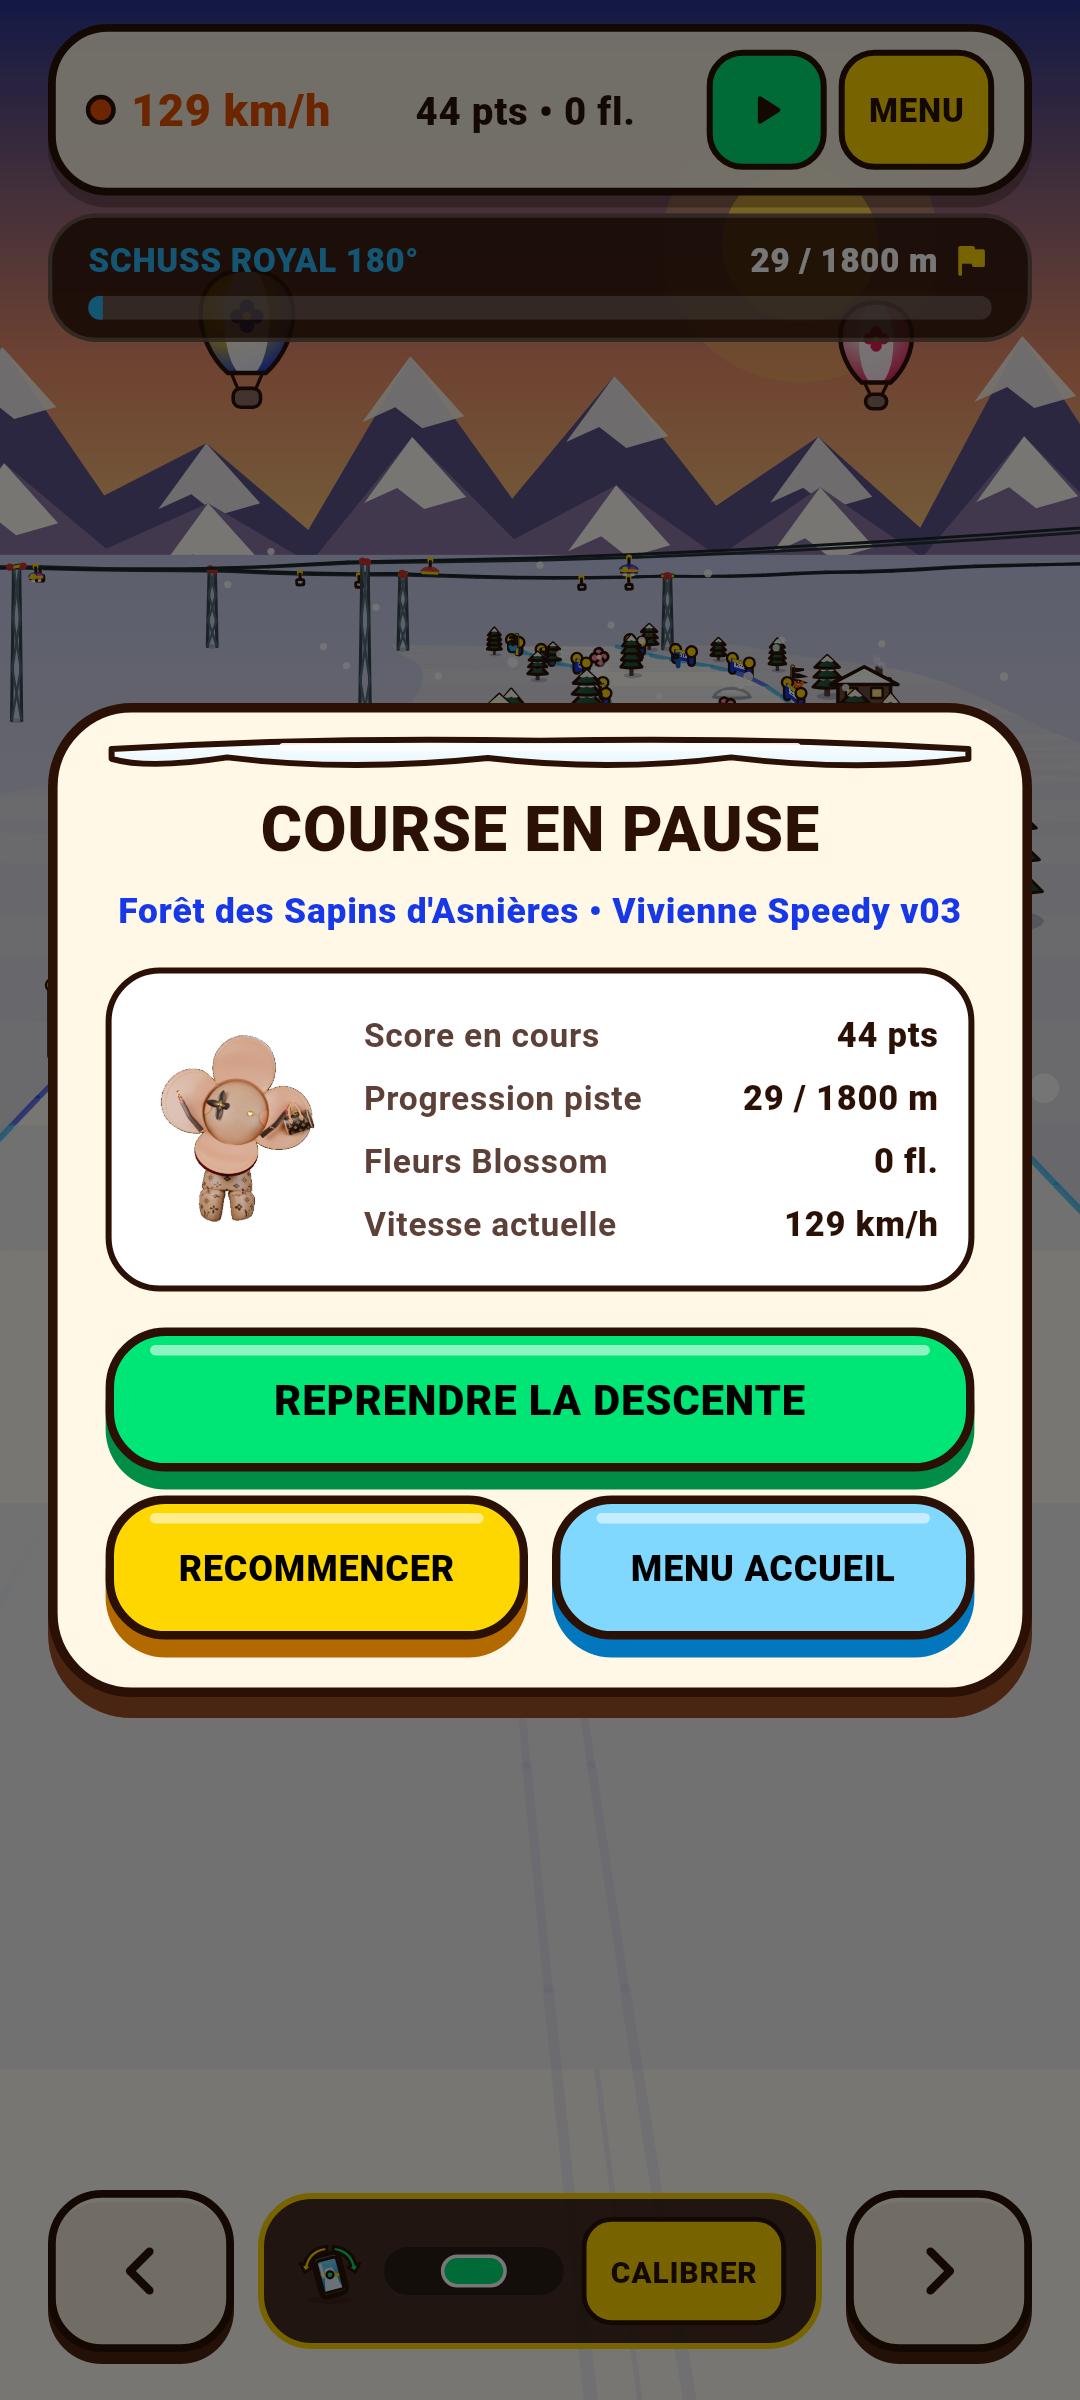
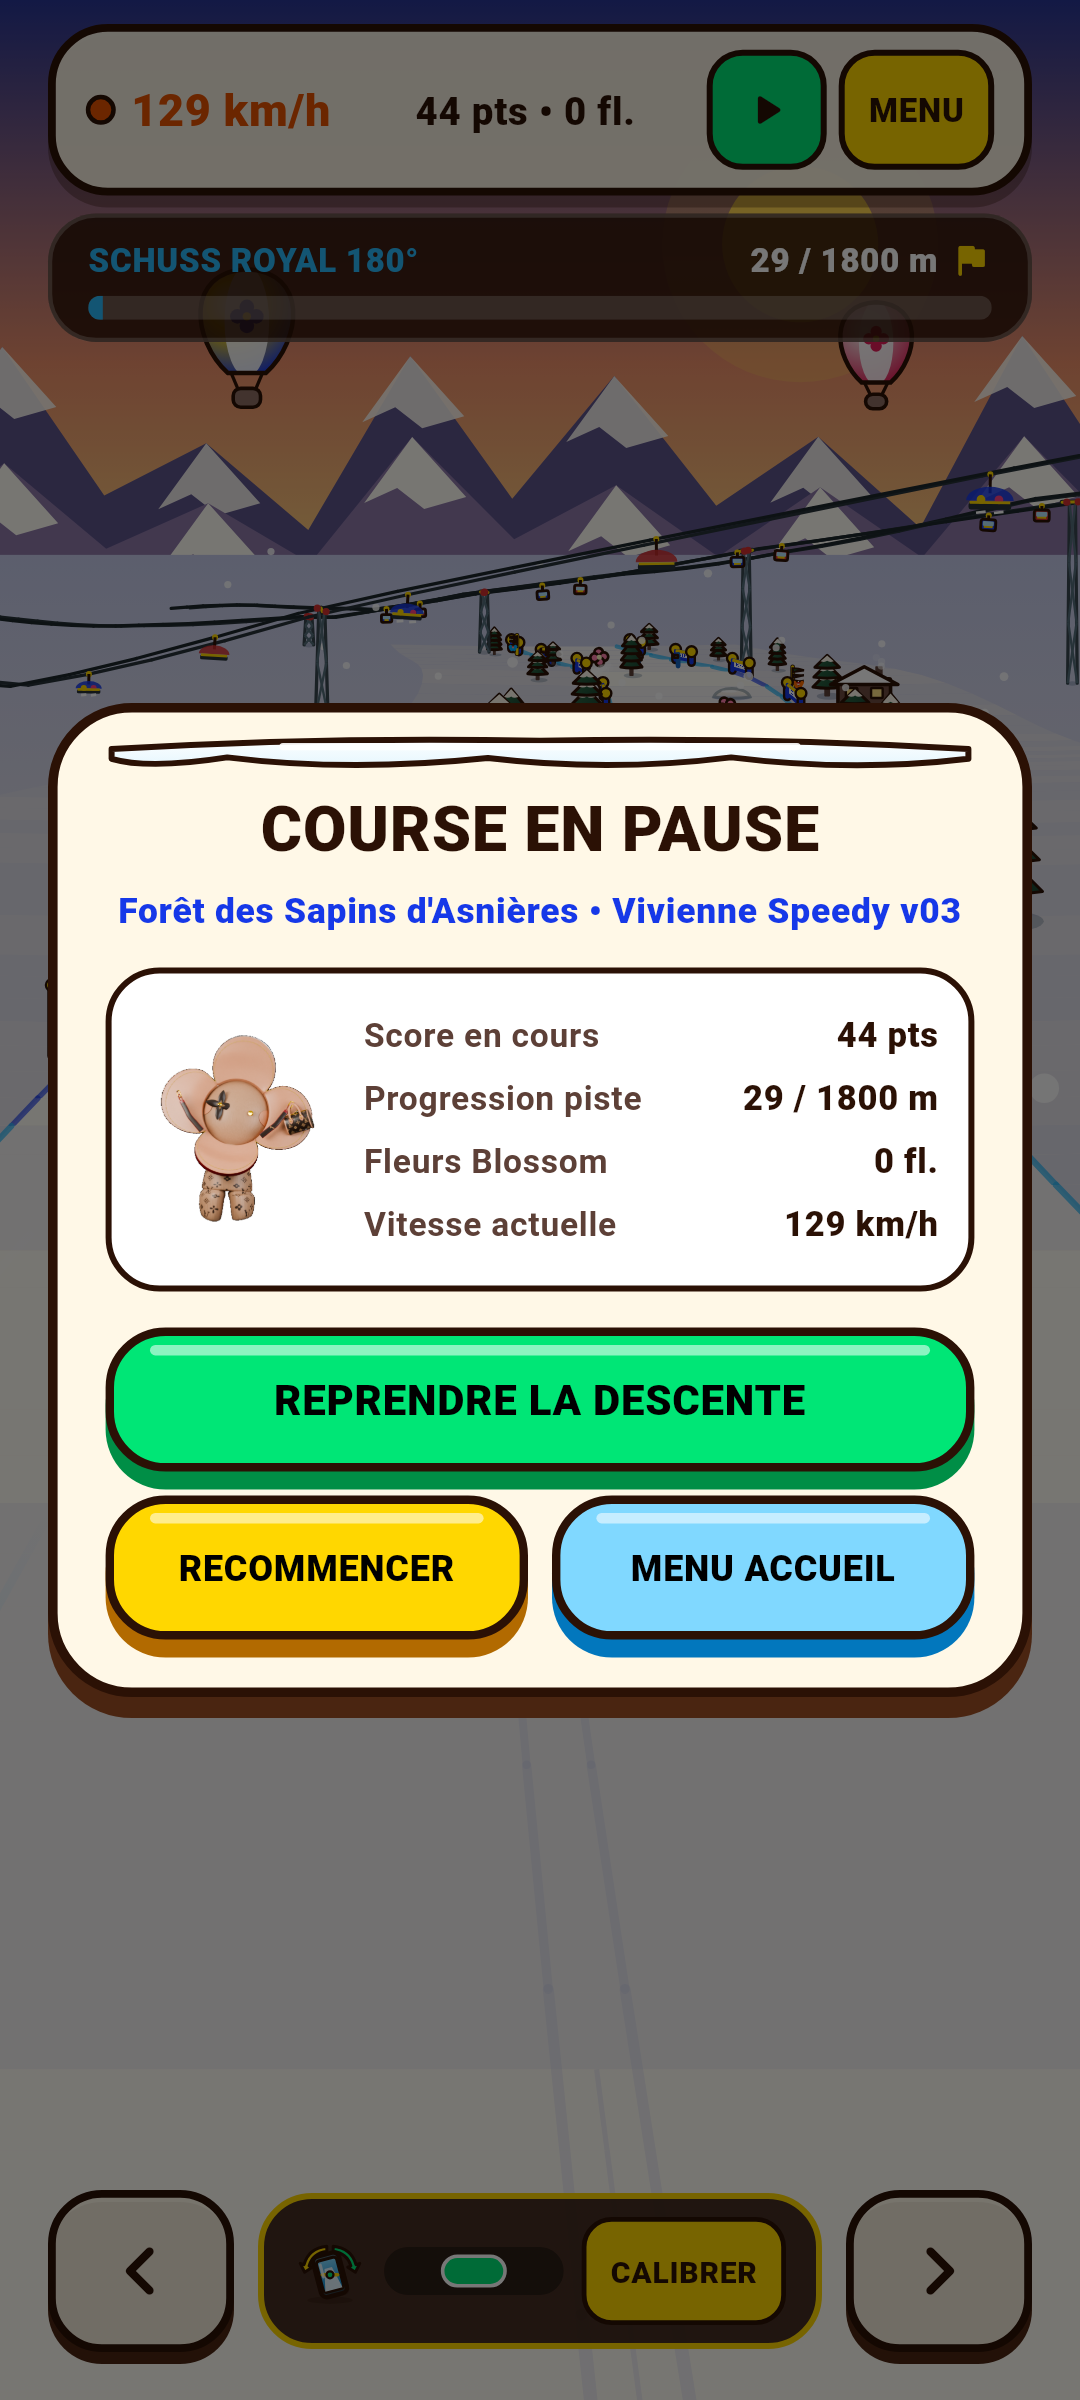
polish(v1.2.0): diagonal 3D chairlift depth perspective, midair jump callout badge & takeoff powder spray

Changed region(s): [[0.0611, 0.1875, 1.0, 0.3125], [0.0, 0.2188, 0.0611, 0.3125]]

diff --git a/lib/painters/ski_3d_painter.dart b/lib/painters/ski_3d_painter.dart
@@ -1525,21 +1525,24 @@ class Ski3DPainter extends CustomPainter {
     SkiWorldProp3D prop,
     _ProjectedPoint3D Function(double x, double y, double z) project,
   ) {
-    final double skewSlope = (prop.id % 2 == 0) ? 0.26 : -0.26;
-    final double zClip = camZ + 1.65;
-    final double cableZFarMax = camZ + 950.0;
-    final double actorZFarMax = camZ + 290.0;
+    final double skewSlope =
+        track == SkiTrackId.blueAsnieresForest ? -0.56 : 0.56;
+    final double zClip = camZ + 6.5;
+    final double actorZMin = camZ + 14.0;
+    final double cableZFarMax = camZ + 420.0;
+    final double actorZFarMax = camZ + 240.0;
 
     const List<double> pylonOffsets = <double>[
-      -150.0,
-      -95.0,
-      -42.0,
-      42.0,
-      95.0,
-      150.0,
+      -135.0,
+      -78.0,
+      -28.0,
+      28.0,
+      78.0,
+      135.0,
     ];
 
-    double pylonTopHeightAtDx(double dx) => 23.5 + dx * 0.014;
+    double pylonTopHeightAtDx(double dx) =>
+        (19.0 - dx * (skewSlope > 0 ? 0.16 : -0.16)).clamp(7.8, 42.0);
 
     double cableHeightAtDx(double dx) {
       double sag = 0.0;
@@ -1566,11 +1569,11 @@ class Ski3DPainter extends CustomPainter {
       return pylonTopHeightAtDx(dx) - sag;
     }
 
-    // 1. Continuous Infinite Uphill (`+1.6m` Z) & Downhill (`-1.6m` Z) Steel Haul Cables
+    // 1. Continuous Infinite Uphill (`+1.8m` Z) & Downhill (`-1.8m` Z) Steel Haul Cables
     // spanning `-380m..+380m` with exact 3D near-plane clipping (`zClip = camZ + 1.65`)
     // so cables always exit cleanly past the left/right/top screen boundaries!
-    for (final double laneZOffset in const <double>[1.6, -1.6]) {
-      const double stepDx = 12.0;
+    for (final double laneZOffset in const <double>[1.8, -1.8]) {
+      const double stepDx = 10.0;
       for (double dx0 = -380.0; dx0 < 380.0; dx0 += stepDx) {
         final double dx1 = math.min(380.0, dx0 + stepDx);
         double x0 = prop.x + dx0;
@@ -1608,13 +1611,13 @@ class Ski3DPainter extends CustomPainter {
             ..color = laneZOffset > 0
                 ? const Color(0xFF263238)
                 : const Color(0xFF1C262B)
-            ..strokeWidth = (avgScale * 0.085).clamp(0.95, 2.8)
+            ..strokeWidth = (avgScale * 0.095).clamp(1.1, 3.2)
             ..strokeCap = StrokeCap.round,
         );
       }
     }
 
-    // 2. Collect 6 Steel Lattice 3D Pylons + 10 Circulating Carriers (5 Uphill, 5 Downhill)
+    // 2. Collect 6 Steel Lattice 3D Pylons + 20 Circulating Carriers (10 Uphill, 10 Downhill)
     // and sort them strictly back-to-front by world Z!
     final List<(double zSort, bool isPylon, double dx, int slotIndex)>
         liftActors = <(double, bool, double, int)>[];
@@ -1622,24 +1625,26 @@ class Ski3DPainter extends CustomPainter {
     for (int i = 0; i < pylonOffsets.length; i++) {
       final double dx = pylonOffsets[i];
       final double pz = prop.z + dx * skewSlope;
-      if (pz >= zClip + 0.4 && pz <= actorZFarMax) {
+      if (pz >= actorZMin && pz <= actorZFarMax) {
         liftActors.add((pz, true, dx, i));
       }
     }
 
-    // 5 Uphill carriers (`+1.6m` Z) + 5 Downhill carriers (`-1.6m` Z) across `-210m..+210m`
-    for (int i = 0; i < 10; i++) {
-      final bool isUphill = i < 5;
-      final int laneIdx = i % 5;
-      final double phase =
-          (engine.ambientTime * 0.052 + prop.variant * 0.29 + laneIdx * 0.20 + (isUphill ? 0.0 : 0.10)) %
-              1.0;
+    // 8 Uphill carriers (`+1.8m` Z) + 8 Downhill carriers (`-1.8m` Z) across `-160m..+160m`
+    for (int i = 0; i < 16; i++) {
+      final bool isUphill = i < 8;
+      final int laneIdx = i % 8;
+      final double phase = (engine.ambientTime * 0.042 +
+              prop.variant * 0.17 +
+              laneIdx * 0.125 +
+              (isUphill ? 0.0 : 0.06)) %
+          1.0;
       final double dx = isUphill
-          ? (-210.0 + phase * 420.0)
-          : (210.0 - phase * 420.0);
-      final double laneZOffset = isUphill ? 1.6 : -1.6;
+          ? (-160.0 + phase * 320.0)
+          : (160.0 - phase * 320.0);
+      final double laneZOffset = isUphill ? 1.8 : -1.8;
       final double cz = prop.z + dx * skewSlope + laneZOffset;
-      if (cz >= zClip + 0.3 && cz <= actorZFarMax) {
+      if (cz >= actorZMin && cz <= actorZFarMax) {
         liftActors.add((cz, false, dx, i));
       }
     }
@@ -1735,14 +1740,14 @@ class Ski3DPainter extends CustomPainter {
           );
         }
       } else {
-        // Circulating Chairlift / Gondola Cabin (`slotIdx` 0..4 uphill, 5..9 downhill)
-        final bool isUphill = slotIdx < 5;
+        // Circulating Chairlift / Gondola Cabin (`slotIdx` 0..7 uphill, 8..15 downhill)
+        final bool isUphill = slotIdx < 8;
         final double cx = prop.x + dx;
         final double cableY = cableHeightAtDx(dx);
         final _ProjectedPoint3D hangerTop = project(cx, cableY, zWorld);
         final _ProjectedPoint3D cabCenter =
-            project(cx, cableY - 1.48, zWorld);
-        final double cs = cabCenter.scale;
+            project(cx, cableY - 1.65, zWorld);
+        final double cs = cabCenter.scale * 1.25;
         if (cs < 0.55) continue;
 
         final double sway =
@@ -3064,7 +3069,7 @@ class Ski3DPainter extends CustomPainter {
   void _paintFloatingCallouts(Canvas canvas, Size size) {
     for (int i = 0; i < engine.callouts.length; i++) {
       final SkiFloatingCallout c = engine.callouts[i];
-      final double y = size.height * 0.44 - c.progress * 44.0 - i * 26.0;
+      final double y = size.height * 0.27 - c.progress * 32.0 - i * 30.0;
       final double alpha = (1.0 - c.progress * 0.85).clamp(0.0, 1.0);
 
       final TextPainter tp = TextPainter(
@@ -3072,13 +3077,14 @@ class Ski3DPainter extends CustomPainter {
           text: c.text,
           style: TextStyle(
             fontFamily: 'Roboto',
-            fontSize: 16,
+            fontSize: 15,
             fontWeight: FontWeight.w900,
+            letterSpacing: 0.4,
             color: c.color.withValues(alpha: alpha),
             shadows: <Shadow>[
               Shadow(
                 color: _kOutline.withValues(alpha: alpha),
-                offset: const Offset(0, 2),
+                offset: const Offset(0, 1.5),
                 blurRadius: 2,
               ),
             ],
@@ -3086,6 +3092,27 @@ class Ski3DPainter extends CustomPainter {
         ),
         textDirection: TextDirection.ltr,
       )..layout();
+
+      final Rect pillRect = Rect.fromCenter(
+        center: Offset(size.width * 0.5, y + tp.height * 0.5),
+        width: tp.width + 24.0,
+        height: tp.height + 10.0,
+      );
+      final RRect pillRRect = RRect.fromRectAndRadius(
+        pillRect,
+        const Radius.circular(16),
+      );
+      canvas.drawRRect(
+        pillRRect,
+        Paint()..color = const Color(0xFF0A1628).withValues(alpha: 0.82 * alpha),
+      );
+      canvas.drawRRect(
+        pillRRect,
+        Paint()
+          ..color = c.color.withValues(alpha: 0.72 * alpha)
+          ..style = PaintingStyle.stroke
+          ..strokeWidth = 1.5,
+      );
 
       tp.paint(
         canvas,

diff --git a/lib/engine/ski_game_engine.dart b/lib/engine/ski_game_engine.dart
@@ -986,7 +986,12 @@ class SkiGameEngine extends ChangeNotifier {
           maxLife: 1.40,
         ),
       );
-    _spawnPowderBurst(count: 12, upwardVy: 5.2);
+    _spawnPowderBurst(
+      count: 10,
+      upwardVy: 4.2,
+      spawnY: 0.22,
+      spawnZ: playerZ - p * 6.5,
+    );
     notifyListeners();
   }
 
@@ -1074,16 +1079,20 @@ class SkiGameEngine extends ChangeNotifier {
     required int count,
     required double upwardVy,
     bool includePineNeedles = false,
+    double? spawnY,
+    double? spawnZ,
   }) {
     final double wx = playerWorldX;
+    final double baseY = spawnY ?? math.min(0.42, math.max(0.18, playerY + 0.10));
+    final double baseZ = spawnZ ?? playerZ;
     for (int i = 0; i < count && snowParticles.length < 165; i++) {
       final double angle = (i / count) * math.pi * 2.0;
       final bool isNeedle = includePineNeedles && (i % 3 == 1);
       snowParticles.add(
         SkiSnowParticle3D(
           x: wx + math.cos(angle) * 0.55,
-          y: math.max(0.18, playerY + 0.12),
-          z: playerZ + math.sin(angle) * 0.55,
+          y: baseY,
+          z: baseZ + math.sin(angle) * 0.55,
           vx: math.cos(angle) * (2.8 + (i % 3) * 1.25),
           vy: upwardVy * (0.65 + (i % 4) * 0.14),
           vz: math.sin(angle) * 2.2,
@@ -1410,7 +1419,7 @@ class SkiGameEngine extends ChangeNotifier {
     //     Waving Cartoon Snowmen (`cartoonSnowman`), Fluttering Pennants & Supporters (`flutteringPennantPost`),
     //     Active Snow Cannons (`snowCannon`) & Illuminated Mid-Slope Chalets (`alpineChalet`)
     int cableIdx = 0;
-    for (double cz = 116.0; cz <= length - 75.0; cz += 175.0) {
+    for (double cz = 80.0; cz <= length - 65.0; cz += 130.0) {
       worldProps.add(
         SkiWorldProp3D(
           id: nextPropId++,

diff --git a/test/widget_test.dart b/test/widget_test.dart
@@ -352,7 +352,7 @@ void main() {
       final SkiWorldProp3D firstChairlift = engine.worldProps.firstWhere(
         (SkiWorldProp3D p) => p.kind == SkiPropKind.cableCarPylon,
       );
-      engine.playerZ = firstChairlift.z - 56.0;
+      engine.playerZ = firstChairlift.z - 48.0;
       engine.playerLateralOffset = -2.2;
       engine.setManualTilt(0.38);
       for (int i = 0; i < 22; i++) {
